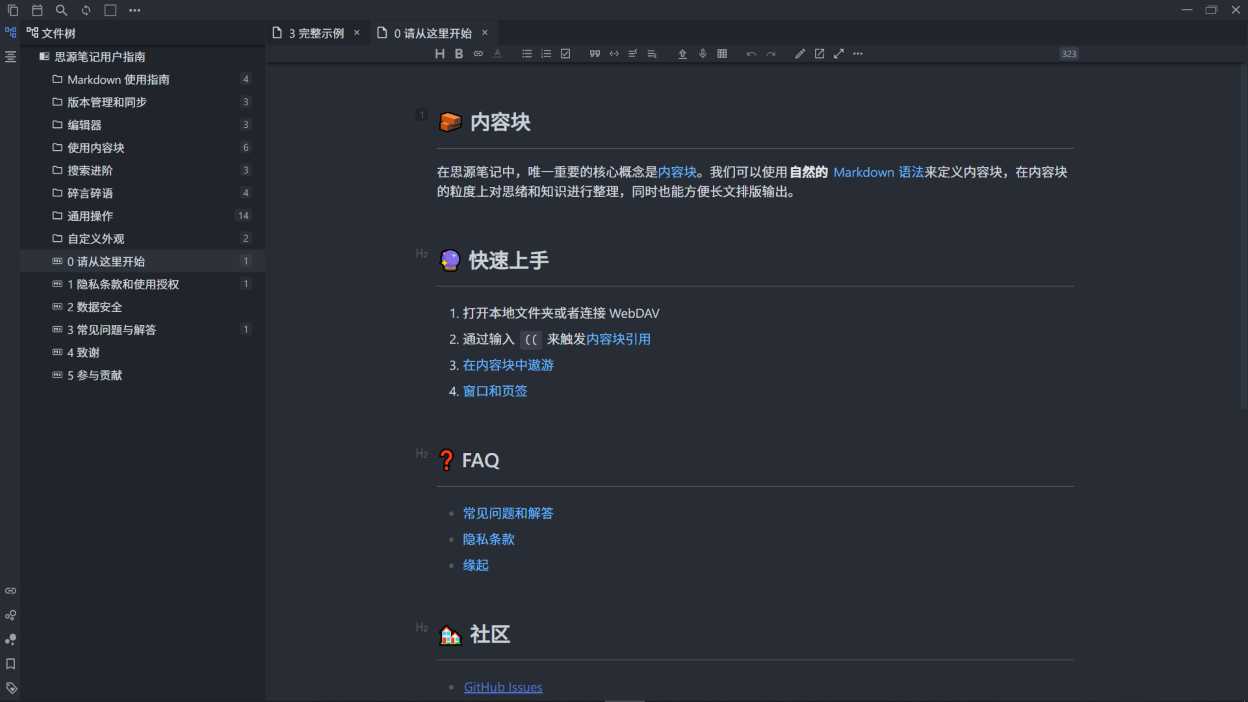
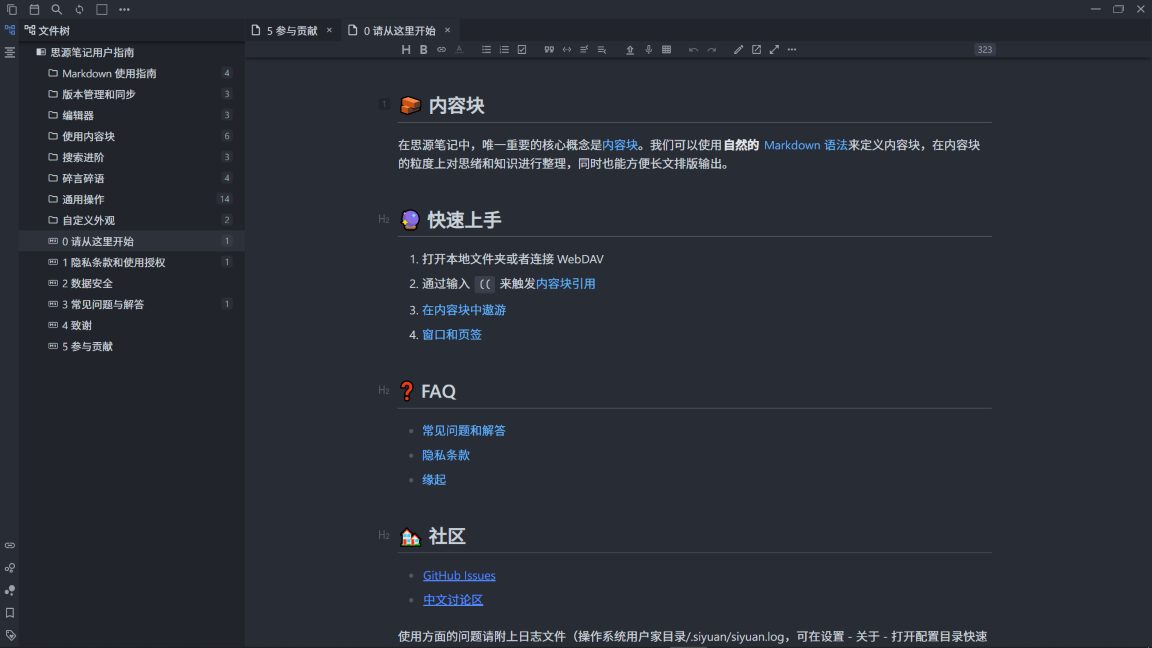
1.3.7 update

diff --git a/theme.css b/theme.css
@@ -218,8 +218,8 @@
 }
 
 .vditor-toolbar__item[data-type="upload"] {
-  padding-top: 6px;
-  width: 22px;
+  padding-top: 5px;
+  width: 20px;
 }
 
 /* 字数计数器*/

diff --git a/README.md b/README.md
@@ -36,7 +36,7 @@
 
 ## 历史版本
 
-### 1.3.6
+### 1.3.7
 
 - 修改菜单和五种卡片的阴影
 - 修改外部链接的字体颜色
@@ -48,6 +48,7 @@
 - 调整块标识菜单位置
 - 修改段落块外下边距为24px
 - 修改引用块内上下边距为1em
+- 修改上传按钮的样式
 
 ### 1.2.7
 
